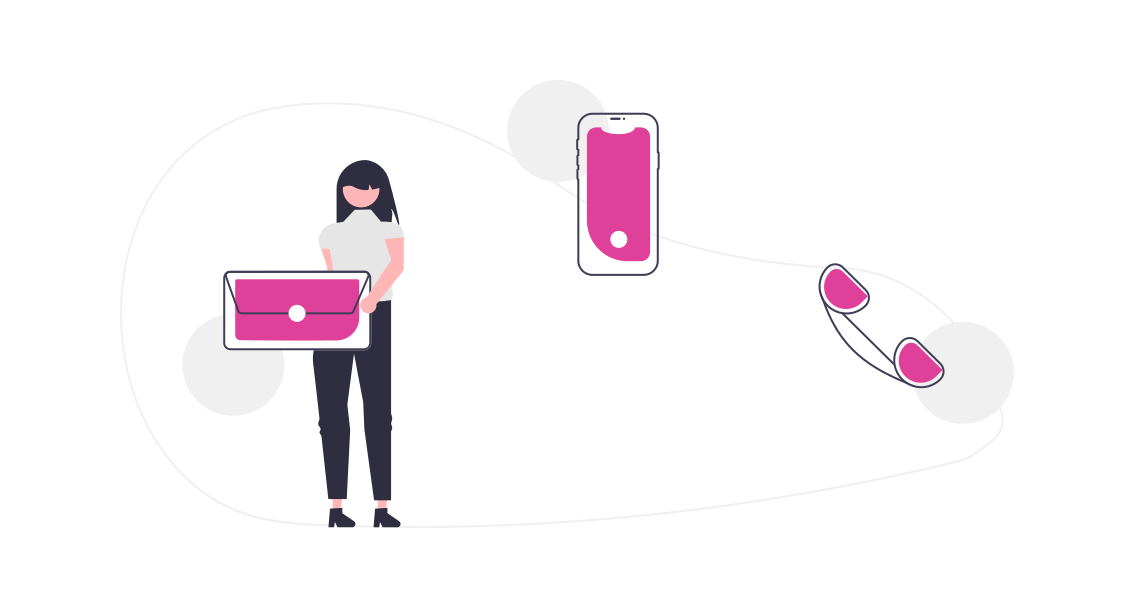
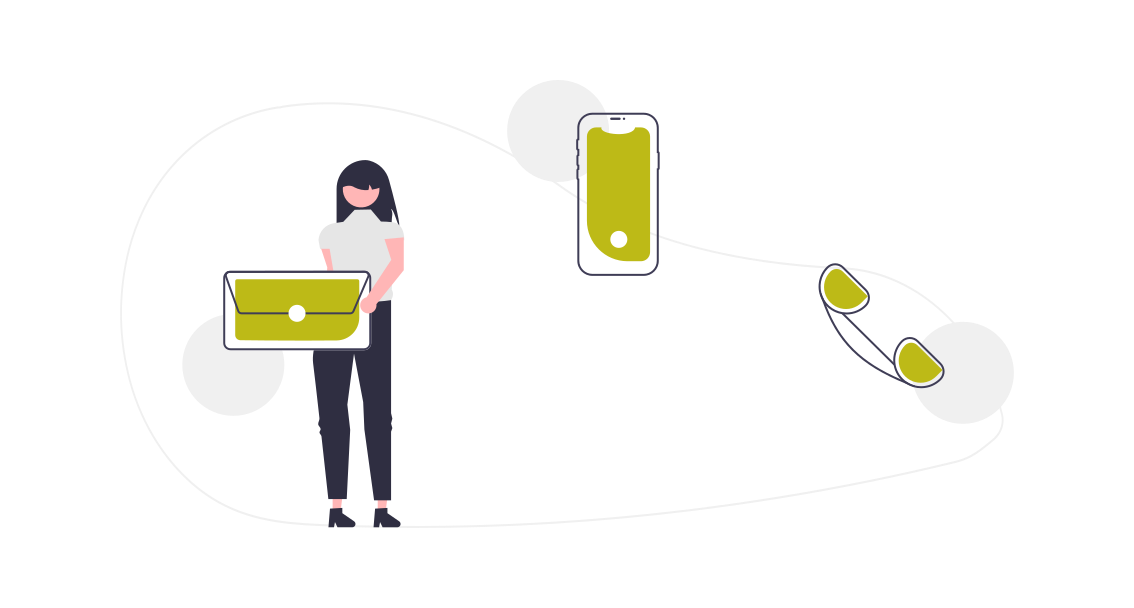
front

diff --git a/index.html b/index.html
@@ -3,7 +3,7 @@
 
 <head>
     <meta http-equiv="Content-Type" content="text/html; charset=utf-8" />
-    <title>JeeviDigital</title>
+    <title>Jeevi Frontend </title>
     <link rel="stylesheet" href="https://cdn.jsdelivr.net/bxslider/4.2.12/jquery.bxslider.css">
     <link rel="stylesheet" href="css/animate.css">
     <link rel="icon" type="image/x-icon" href="./images/logo_yy.png">
@@ -264,7 +264,7 @@
                 <div class="row">
                     <div class="col-md-8 col-sm-12">
                         <div class="banner-text">
-                            <h2 class="white">Designing the Future: Where Creativity Knows No Bounds</h2>
+                            <h2 class="white">Revolutionize User Experiences with Cutting-Edge Frontend Development</h2>
 
                             <p class="banner-text white">Transforming Ideas into Stunning Visual Realities</p>
                             
@@ -519,10 +519,10 @@
                         <h3>About</h3>
                         <span class="line"></span>
                         <h5>
-                            Welcome to Jeevi Design, where creativity knows no bounds
+                            Welcome to Jeevi Frontend, where creativity knows no bounds
                         </h5>
                         <p>
-                            At Jeevi Design Academy, we're more than just a design teaching academy; we're your creative
+                            At Jeevi Academy, we're more than just a Frontend teaching academy; we're your creative
                             partners in transforming ideas into visual masterpieces. Our journey began with a passion
                             for design, a commitment to innovation, and a mission to bring your vision to life.
                         </p>
@@ -554,6 +554,7 @@
                                 <div class="icon-box wow fadeInUp" data-wow-delay="0.6s"> <i class="fa fa-bolt"
                                         aria-hidden="true"></i>
                                     <h5>Our Approach</h5>
+
                                     <p>
                                         We approach each project with a blend of creativity and strategy. Understanding
                                         your goals and your audience is at the core of our design process. We aim to not
@@ -562,7 +563,6 @@
                                 </div>
                             </div>
                         </div>
-
                     </div>
                 </div>
             </div>
@@ -575,6 +575,7 @@
                 <div class="col-md-12">
                     <div class="sectioner-header text-center">
                         <h3>category</h3>
+                        
                         <span class="line"></span>
                         <p>
                             Nurture your creativity with our creative arts and design courses. Whether you're an
@@ -586,14 +587,14 @@
                             <div class="col-sx-3 col-sm-4 col-md-4 wow fadeInUp" data-wow-delay="0.4s">
                                 <div class="card col-md-12">
                                     <a href="">
-                                        <img sizes="(max-width: 550px) 100vw, 550px" src="./images/Ui_Design.png"
+                                        <img sizes="(max-width: 550px) 100vw, 550px" src="./images/fullstack.png"
                                             alt="uplabs">
                                     </a>
 
                                     <div class="card_body">
                                         <div class="card_body_each">
-                                            <div class="card_body_each_a"><a href="https://www.uplabs.com/"><span>Ui
-                                                        Design</span></a>
+                                            <div class="card_body_each_a"><a href="https://www.uplabs.com/"><span>Full stack 
+                                                development</span></a>
                                             </div>
                                         </div>
 
@@ -716,16 +717,13 @@
                                     </div>
                                 </div>
                             </div>
-
-
                         </div>
                     </div>
                 </div>
             </div>
         </div>
     </section>
-
-
+    
  <section class="contact section-padding" data-scroll-index='6'>
         <div class="container">
             <div class="row">
@@ -740,6 +738,7 @@
                             Thank You For Your Interest In Our Services. We Look Forward To Hearing From You Soon!
                         </p>
                     </div>
+
                     <div class="section-content">
                         <div class="row">
 
@@ -789,7 +788,7 @@
 </section>
 
 
-<section class="download section-padding">
+<!-- <section class="download section-padding">
         <div class="container">
             <div class="row">
                 <div class="col-md-12">
@@ -813,36 +812,30 @@
                                         </li>
     
                                     <li><a href="">Contact</a></li>
-    
                                 </ul>
                             </div>
                             <div class="col-md-4">
                                 <img src="./images/map.png" alt="">
                             </div>
                         </div>
-
-                       
                         <span class="line"></span>
-
-                   
                     </div>
                 </div>
-             
             </div>
         </div>
-    </section>
+    </section> -->
 
 
-    <footer class="footer-copy">
-        <div class="container-fluid">
-            <div class="row">
-                <div class="col-md-12">
-                    <p>Copyright © 2023 JeeviDesign. All Rights Reserved
-                    </p>
-                </div>
+<footer class="footer-copy">
+    <div class="container-fluid">
+        <div class="row">
+            <div class="col-md-12">
+                <p>Copyright © 2023 JeeviDesign. All Rights Reserved
+                </p>
             </div>
         </div>
-    </footer>
+    </div>
+</footer>
 
 
     <script src="https://ajax.googleapis.com/ajax/libs/jquery/1.12.4/jquery.min.js"></script>
@@ -923,23 +916,6 @@
 
 </html>
 
-
-<!DOCTYPE html>
-<html lang="en">
-
-<head>
-
-    <meta charset="UTF-8">
-    <meta name="viewport" content="width=device-width, initial-scale=1.0">
-    <title>Document</title>
-
-</head>
-
-<body>
-
-
-</body>
-</html>
 
 
 

diff --git a/css/style.css b/css/style.css
@@ -43,7 +43,7 @@ h6 {
 }
 
 .navbar .active {
-	color: #ffbd59 !important;
+	color: #fff !important;
 }
 
 .navbar .nav-item {
@@ -86,7 +86,7 @@ h6 {
 	transition: all .4s ease;
 }
 .nav-scroll .navbar-nav > li > a {
-	color: #ffbd59;
+	color: #036;
 }
 .nav-scroll .navbar-brand img {
 	-webkit-transform: scale(1.03) !important;
@@ -239,10 +239,12 @@ h6 {
 
 	/* background: linear-gradient(to left, rgba(122, 96, 255, 0.90), rgba(205, 159, 250, 0.90)); */
 }
+
 .video-section h3 {
 	font-weight: 600;
 	font-size: 38px;
 }
+
 .video-section i {
 	display: block;
 	position: relative;
@@ -256,6 +258,7 @@ h6 {
 	margin: 0 auto;
 	cursor:pointer;
 }
+
 .video-popup {
 	position: fixed;
 	top: 0;
@@ -272,11 +275,13 @@ h6 {
 	-ms-flex-pack: center !important;
 	justify-content: center !important;
 }
+
 .video-popup .video-src {
 	position: relative;
 	width: 700px;
 	max-width: 80%;
 }
+
 .video-popup .iframe-src {
 	width: 100%;
 	height: 0;
@@ -284,6 +289,7 @@ h6 {
 	position: relative;
 	display: none;
 }
+
 .video-popup .iframe-src iframe {
 	position: absolute;
 	top: 0;
@@ -291,16 +297,20 @@ h6 {
 	width: 100%;
 	height: 100%;
 }
+
 .single-feature {
 	margin-bottom: 80px;
 	margin-top: 40px;
 }
+
 .single-feature h5 {
 	font-size: 16px;
 }
+
 .media-right-margin {
 	margin-right:25px;
 }
+
 .single-feature p {
 	font-size: 13px;
 }
@@ -316,13 +326,16 @@ h6 {
 	line-height: 50px;
 	border: 1px solid rgb(142, 30, 252);
 }
+
 .team {
 	background: #fafafa;
 	border-top: 1px solid #e4e4e4;
 }
+
 .team-detail {
 	margin-top:40px;
 }
+
 .team-detail img {
 	border-radius: 50%;
 	width: 70%;
@@ -364,6 +377,7 @@ h6 {
 	background-size: auto auto !important;
 	background-size: 100% 100% !important;
 }
+
 .bx-wrapper {
 	border: none !important;
 	background: rgba(255, 255, 255, 0.81) !important;
@@ -392,6 +406,7 @@ h6 {
 	float: left;
 	width: 75%;
 }
+
 .slider .title {
 	display: block;
 	position: relative;
@@ -472,6 +487,7 @@ input {
 	background: linear-gradient(to left, #a19f14, #000);
 
 }
+
 .contact-item {
 	margin:23px 0px;
 }
@@ -479,10 +495,12 @@ input {
 .contact-item i {
 	font-size: 20px;
 }
+
 .contact-item p {
 	line-height: 20px;
 	margin: 0;
 }
+
 .download {
 	background: #7a60ff;
 	background: linear-gradient(to left, #dedb1b, #000);
@@ -490,6 +508,7 @@ input {
 	padding:50px 0px;
 	position:relative;
 }
+
 .download::before {
 	content: "";
 	display: block;
@@ -500,9 +519,11 @@ input {
 	height: 100%;
 	background: url(images/pattern.png);
 }
+
 .download ul {
 	list-style: none;
 }
+
 .download ul li {
 	display: block;
 	margin: 0px 10px 10px 0px;
@@ -513,6 +534,7 @@ input {
 	display: block;
 	color: #fff;
 }
+
 .download ul li a img {
 	width: 150px;
 	border-radius: 7px;
@@ -525,9 +547,11 @@ input {
 	text-align: center;
 	padding:15px 0px;
 }
+
 .footer-copy p {
 	margin-bottom:0px;
 }
+
 @media all and (max-width:991px) {
 .navbar .navbar-collapse {
 	overflow: auto;
@@ -538,9 +562,11 @@ input {
 	text-align: center;
 	padding: 10px 0;
 }
+
 .nav-scroll .navbar-collapse {
 	background: #fff !important;
 }
+
 #contact_form {
 	margin-bottom:20px;
 }
